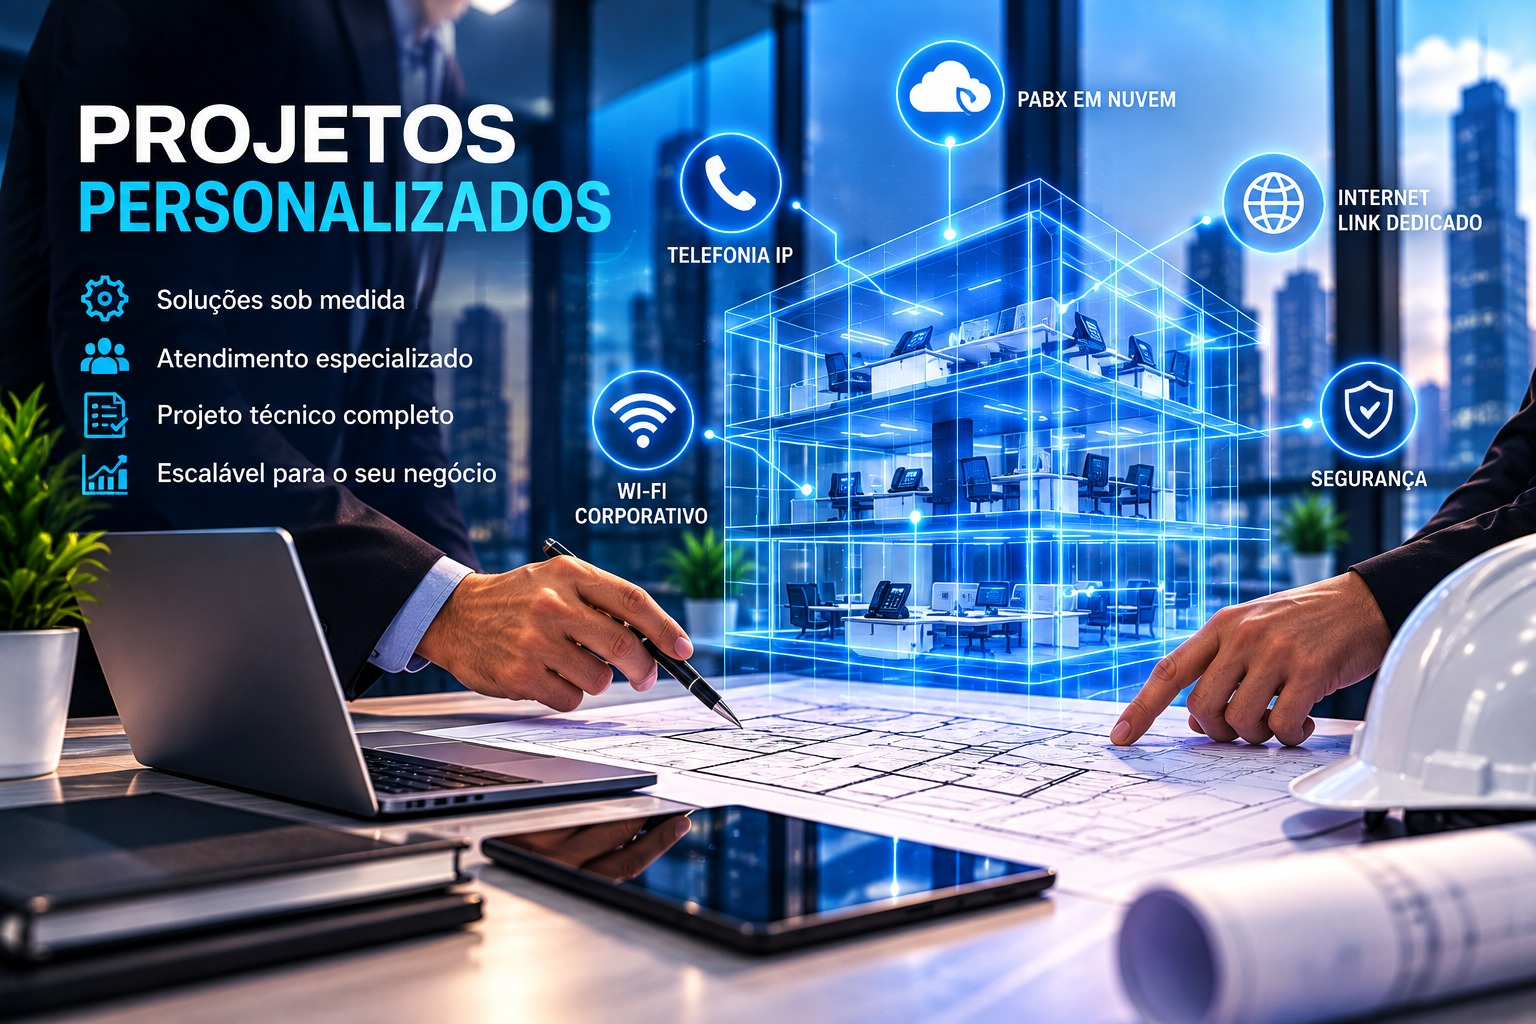
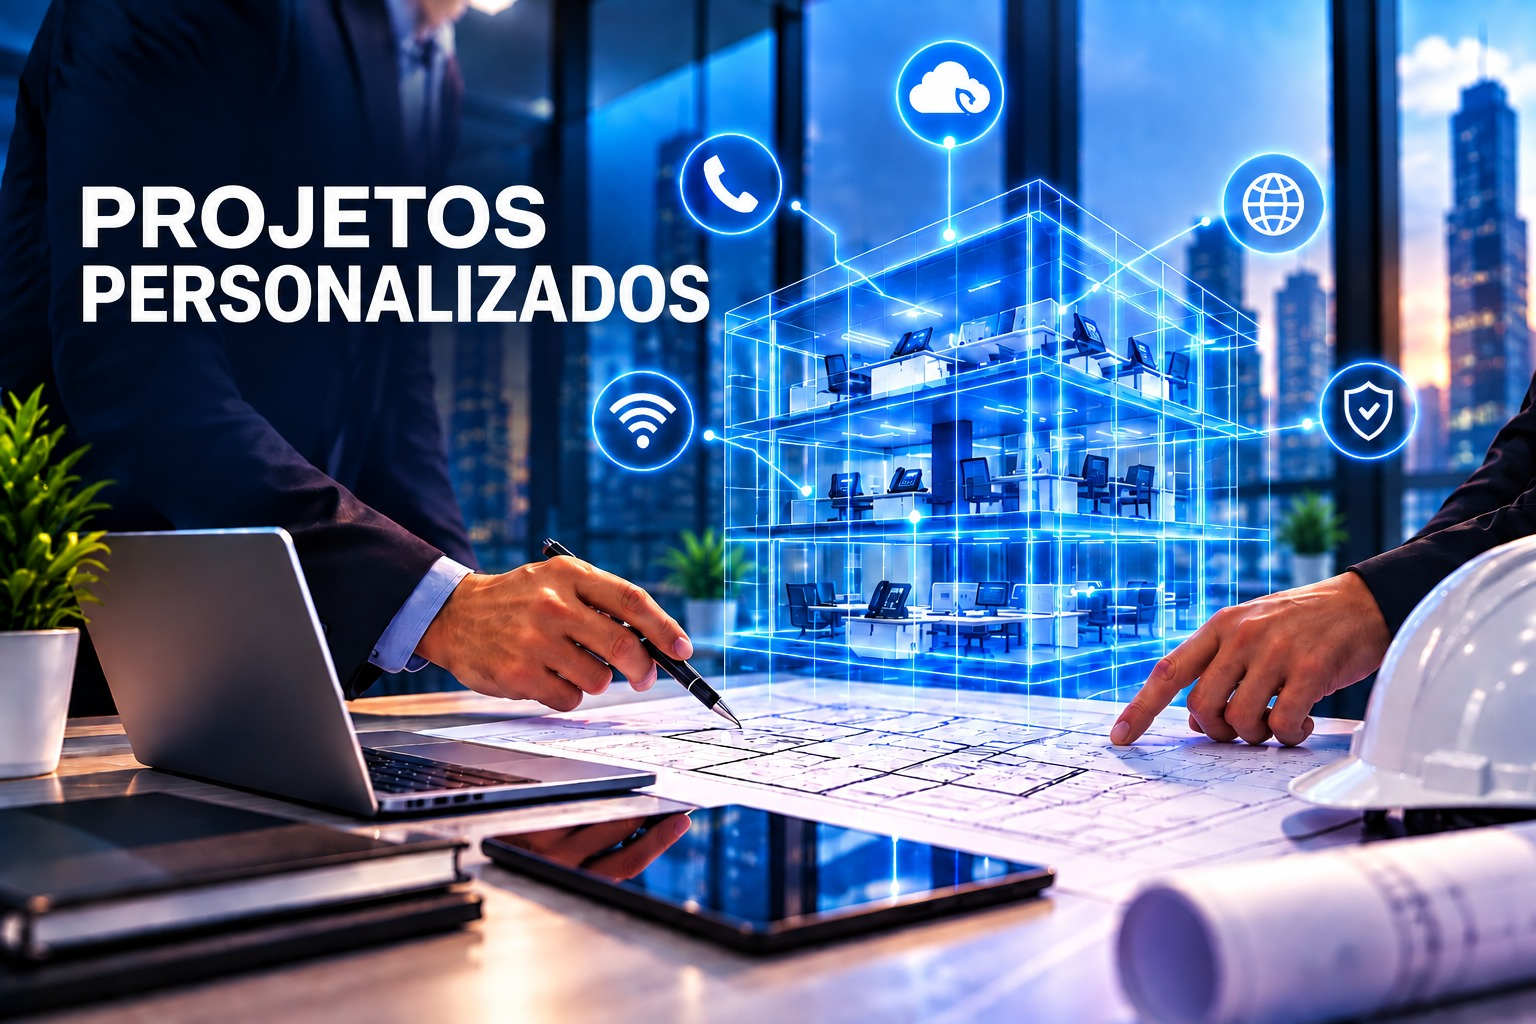
mudanças footer

diff --git a/index.html b/index.html
@@ -485,16 +485,24 @@
                     <p class="text-gray-600 text-lg mb-8 max-w-md">
                         Fale com nossos especialistas e receba uma proposta personalizada.
                     </p>
-                    <a href="mailto:heliton@vitaletelecom.com.br" class="inline-flex items-center gap-2 text-gray-700 hover:text-brand-cyan transition-colors mb-6">
+                    <p class="text-gray-600 text-lg mb-4 max-w-md">
+                        Atendimento de segunda a sexta-feira, das 8h às 18h.
+                    </p>
+                    <p class="text-gray-600 text-lg mb-4 max-w-md">
+                        Telefone: <a href="tel:+556630144660" class="text-brand-cyan hover:underline">+55 (66) 3014-4660</a>
+                    </p>
+                    <p class="text-gray-600 text-lg mb-4 max-w-md">
+                        WhatsApp: <a href="http://wa.me/556630144660" target="_blank" rel="noopener noreferrer" class="text-brand-cyan hover:underline">+55 (66) 8108-4567</a>
+                    <a href="mailto:atendimento@vitaletelecom.com.br" class="inline-flex items-center gap-2 text-gray-700 hover:text-brand-cyan transition-colors mb-6">
                         <i class="ph ph-envelope-simple text-xl text-brand-cyan"></i>
-                        heliton@vitaletelecom.com.br
+                        atendimento@vitaletelecom.com.br
                     </a>
                     <div class="flex flex-col sm:flex-row gap-4">
                         <a href="http://wa.me/556681084567" target="_blank" rel="noopener noreferrer" class="inline-flex justify-center items-center gap-2 bg-brand-cyan text-brand-dark font-bold rounded-lg px-5 py-2.5 hover:bg-white transition-colors duration-300">
                             <i class="ph-fill ph-whatsapp-logo text-xl"></i>
                             Falar no WhatsApp
                         </a>
-                        <a href="mailto:heliton@vitaletelecom.com.br?subject=Solicita%C3%A7%C3%A3o%20de%20proposta" class="inline-flex justify-center items-center gap-2 border border-brand-navy text-brand-dark font-medium rounded-lg px-4 py-2.5 hover:border-brand-cyan hover:bg-brand-cyan/10 transition-colors duration-300">
+                        <a href="mailto:atendimento@vitaletelecom.com.br?subject=Solicita%C3%A7%C3%A3o%20de%20proposta" class="inline-flex justify-center items-center gap-2 border border-brand-navy text-brand-dark font-medium rounded-lg px-4 py-2.5 hover:border-brand-cyan hover:bg-brand-cyan/10 transition-colors duration-300">
                             Pedir proposta
                         </a>
                     </div>
